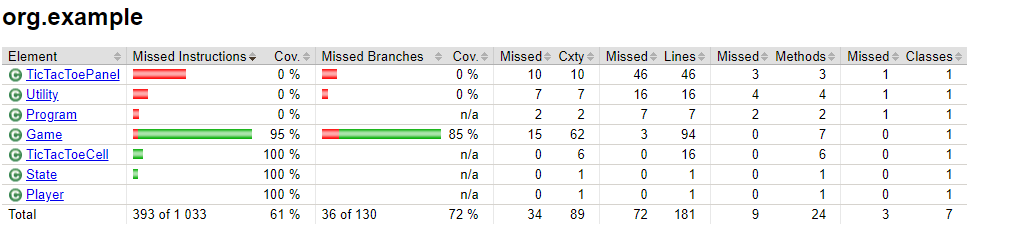
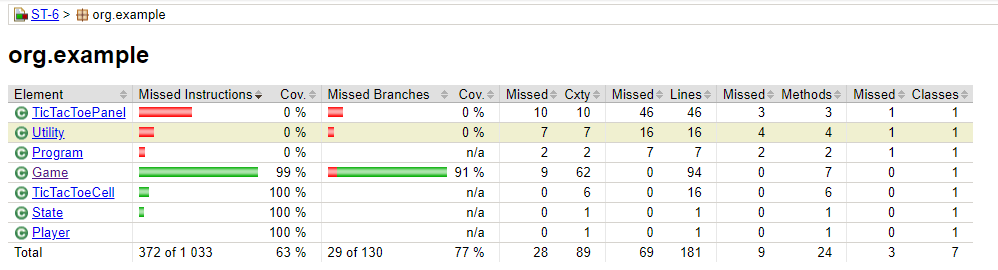
Lab6 remake

diff --git a/src/test/java/org/example/GameTests.java b/src/test/java/org/example/GameTests.java
@@ -15,33 +15,49 @@ public class GameTests {
     }
 
     @Test
-    public void checkState_XWIN_Test() {
-        char[] board = { 'X', 'O', 'X', 'O', 'X', 'O', 'X', ' ', ' ' };
+    public void xWinTest() {
+        char[] board = {
+                'X', 'O', 'X',
+                'O', 'X', 'O',
+                'X', ' ', ' '
+        };
         game.symbol = 'X';
         assertEquals(game.checkState(board), State.XWIN);
     }
 
     @Test
-    public void checkState_OWIN_Test() {
-        char[] board = { 'X', 'O', 'X', ' ', 'O', 'X', ' ', 'O', ' ' };
+    public void oWinTest() {
+        char[] board = {
+                'X', 'O', 'X',
+                ' ', 'O', 'X',
+                ' ', 'O', ' '
+        };
         game.symbol = 'O';
         assertEquals(game.checkState(board), State.OWIN);
     }
 
     @Test
-    public void checkState_DRAW_Test() {
-        char[] board = { 'X', 'O', 'X', 'X', 'O', 'O', 'O', 'X', 'X' };
+    public void stateDrawTest() {
+        char[] board = {
+                'X', 'O', 'X',
+                'X', 'O', 'O',
+                'O', 'X', 'X'
+        };
         assertEquals(game.checkState(board), State.DRAW);
     }
 
     @Test
-    public void checkState_PLAYING_Test() {
-        char[] board = { ' ', ' ', ' ', ' ', ' ', ' ', ' ', ' ', ' ' };
+    public void statePlayingTest() {
+        char[] board = {
+                ' ', ' ', ' ',
+                ' ', ' ', ' ',
+                ' ', ' ', ' '
+        };
         assertEquals(game.checkState(board), State.PLAYING);
     }
 
     @Test
-    public void initialGameState_Test() {
+    public void gameInitTest() {
         assertEquals(game.state, State.PLAYING);
         assertEquals(game.player1.symbol, 'X');
         assertEquals(game.player2.symbol, 'O');
@@ -51,14 +67,14 @@ public class GameTests {
 
     
     @Test
-    public void generateMoves_EmptyArray_Test() {
+    public void EmptyBoardTest() {
         ArrayList<Integer> moves = new ArrayList<>();
         game.generateMoves(game.board, moves);
         assertEquals(9, moves.size());
     }
 
     @Test
-    public void generateMoves_OneRow_Test() {
+    public void OneRowXTest() {
         game.board[0] = 'X';
         game.board[1] = 'X';
         game.board[2] = 'X';
@@ -68,21 +84,25 @@ public class GameTests {
     }
 
     @Test
-    public void evaluatePosition_Playing_Test() {
+    public void evaluatePositionPlayTest() {
         int result = game.evaluatePosition(game.board, game.player1);
         assertEquals(-1, result);
     }
 
     @Test
-    public void evaluatePosition_Draw_Test() {
+    public void evaluatePositionDrawTest() {
         game.symbol = 'X';
-        game.board = new char[] {'X', 'X', 'O', 'O', 'O', 'X', 'X', 'X', 'O'};
+        game.board = new char[] {
+                'X', 'X', 'O',
+                'O', 'O', 'X',
+                'X', 'X', 'O'
+        };
         int result = game.evaluatePosition(game.board, game.player1);
         assertEquals(0, result);
     }
 
     @Test
-    public void evaluatePosition_Player1Win_Test() {
+    public void player1WinTest() {
         game.symbol = 'X';
         game.board[0] = game.player1.symbol;
         game.board[1] = game.player1.symbol;
@@ -92,7 +112,7 @@ public class GameTests {
     }
 
     @Test
-    public void evaluatePosition_Player1Lose_Test() {
+    public void player1LoseTest() {
         game.symbol = 'O';
         game.board[0] = game.player2.symbol;
         game.board[1] = game.player2.symbol;
@@ -102,8 +122,12 @@ public class GameTests {
     }
 
     @Test
-    public void miniMax_Test() {
-        game.board = new char[] {'X', 'X', ' ', ' ', 'O', 'X', ' ', ' ', 'X'};
+    public void minimaxTest() {
+        game.board = new char[] {
+                'X', 'X', ' ',
+                ' ', 'O', 'X',
+                ' ', ' ', 'X'
+        };
         int move = game.MiniMax(game.board, game.player2);
         assertTrue(move >= 1 && move <= 9);
     }

diff --git a/src/test/java/org/example/MinimaxTests.java b/src/test/java/org/example/MinimaxTests.java
@@ -1,0 +1,26 @@
+package org.example;
+
+import org.junit.jupiter.api.Test;
+
+import static org.junit.jupiter.api.Assertions.assertEquals;
+
+public class MinimaxTests {
+
+    @Test
+    void testMinimaxFindsWinningMove() {
+        Game game = new Game();
+        game.board = new char[] {'X', 'X', ' ', 'O', 'O', ' ', ' ', ' ', ' '};
+        game.player2.move = game.MiniMax(game.board, game.player2);
+
+        assertEquals(2, game.player2.move - 1, "Minimax should find the winning move at position 2");
+    }
+
+    @Test
+    void testMinimaxBlocksOpponent() {
+        Game game = new Game();
+        game.board = new char[] {'X', 'X', ' ', ' ', 'O', ' ', ' ', ' ', ' '};
+        game.player2.move = game.MiniMax(game.board, game.player2);
+
+        assertEquals(2, game.player2.move - 1, "Minimax should block the opponent by playing at position 2");
+    }
+}

diff --git a/src/test/java/org/example/MoveGenerationTests.java b/src/test/java/org/example/MoveGenerationTests.java
@@ -1,0 +1,23 @@
+package org.example;
+
+import org.junit.jupiter.api.Test;
+
+import java.util.ArrayList;
+
+import static org.junit.jupiter.api.Assertions.assertEquals;
+import static org.junit.jupiter.api.Assertions.assertTrue;
+
+public class MoveGenerationTests {
+
+    @Test
+    void testGenerateMoves() {
+        Game game = new Game();
+        game.board = new char[] {'X', 'O', ' ', ' ', 'X', ' ', 'O', ' ', ' '};
+        ArrayList<Integer> moveList = new ArrayList<>();
+        game.generateMoves(game.board, moveList);
+
+        assertEquals(5, moveList.size(), "There should be 5 possible moves.");
+        assertTrue(moveList.contains(2), "Move at position 2 should be valid");
+        assertTrue(moveList.contains(3), "Move at position 3 should be valid");
+    }
+}

diff --git a/src/test/java/org/example/EvaluatePositionTests.java b/src/test/java/org/example/EvaluatePositionTests.java
@@ -1,0 +1,18 @@
+package org.example;
+
+import org.junit.jupiter.api.Test;
+
+import static org.junit.jupiter.api.Assertions.assertEquals;
+
+public class EvaluatePositionTests {
+
+
+    @Test
+    void testEvaluateDraw() {
+        Game game = new Game();
+        game.board = new char[] {'X', 'O', 'X', 'O', 'O', 'X', 'X', 'X', 'O'};
+        int score = game.evaluatePosition(game.board, game.player1);
+        assertEquals(0, score, "Game should result in a draw with a score of 0");
+    }
+
+}

diff --git a/src/main/java/org/example/Program.java b/src/main/java/org/example/Program.java
@@ -266,6 +266,7 @@ class TicTacToePanel extends JPanel implements ActionListener {
 
    }
 
+
    private TicTacToeCell[] cells = new TicTacToeCell[9];
    TicTacToePanel(GridLayout layout) {
        super(layout);
